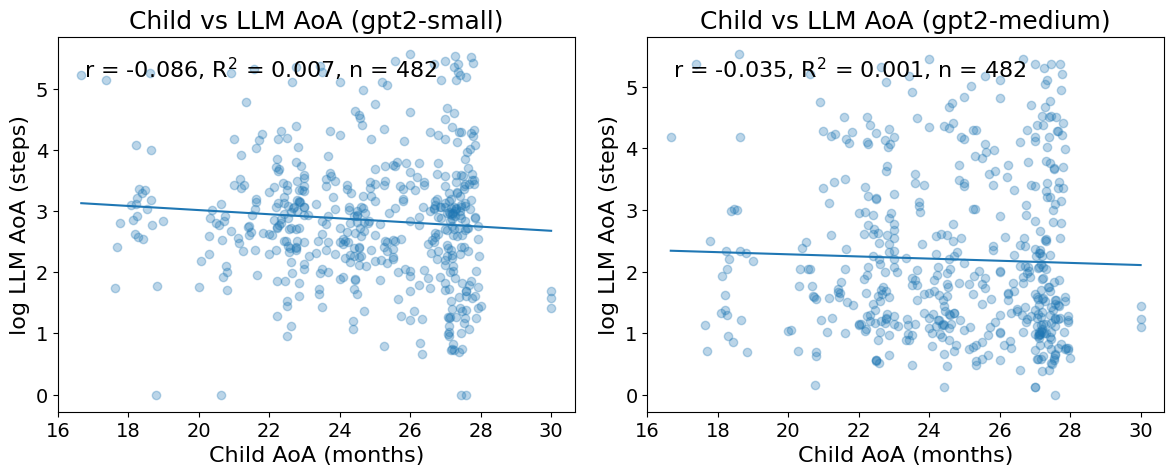
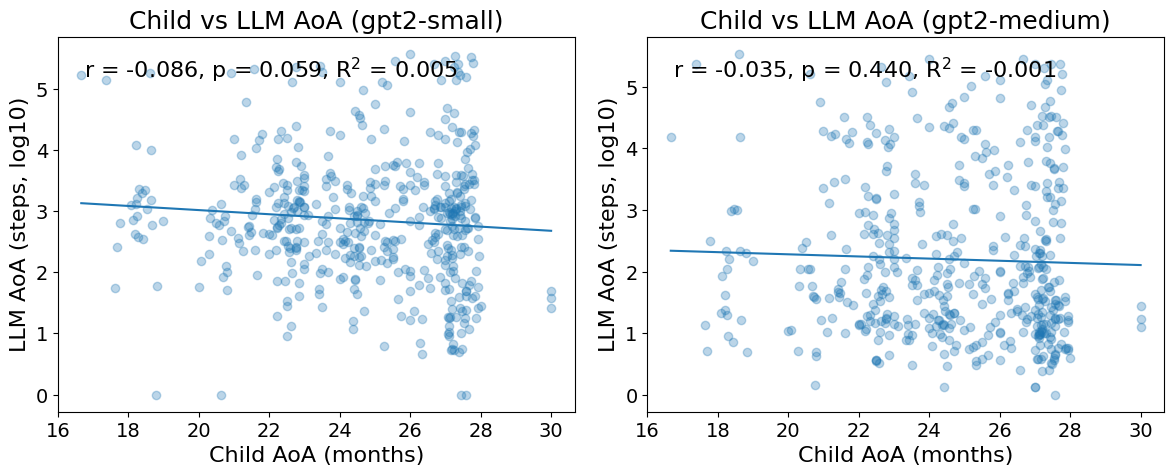
regression plots

diff --git a/src/experiments/frequency_regression.py b/src/experiments/frequency_regression.py
@@ -4,6 +4,17 @@ import numpy as np
 import pandas as pd 
 import pickle
 from sklearn.linear_model import LinearRegression
+from scipy.stats import pearsonr
+
+plt.rcParams.update(
+    {
+        "font.size": 14,
+        "axes.titlesize": 18,
+        "axes.labelsize": 16,
+        "xtick.labelsize": 12,
+        "ytick.labelsize": 12,
+    }
+)   
 
 def compute_log_freq(freq_dict):
     return {w: np.log10(freq) for w, freq in freq_dict.items() if freq > 0}
@@ -15,47 +26,76 @@ def compile_df(aoa, log_freq):
     ])
 
 def fit_regression(df):
-    x = df['log_freq'].values.reshape(-1, 1)
-    y = df['aoa'].values
+    x = df["log_freq"].values
+    y = df["aoa"].values
+    X = x.reshape(-1, 1)
+    model = LinearRegression().fit(X, y)
 
-    model = LinearRegression().fit(x, y)
-
-    r2 = model.score(x, y)
+    r2 = model.score(X, y)
     n = len(df)
-    p = 1 
+    p = 1
     adj_r2 = 1 - (1 - r2) * (n - 1) / (n - p - 1)
-    return model, r2, adj_r2
+    r, pval = pearsonr(x, y)
 
-def plot_freq_vs_aoa(df, model, adj_r2, fig_path):
-    plt.scatter(df['log_freq'], df['aoa'], alpha=0.2)
+    return model, r, adj_r2, pval
 
-    x_line = np.linspace(df['log_freq'].min(), df['log_freq'].max(), 200)
+def plot_freq_vs_aoa(ax, df, model, r, pval, r2, model_name):
+    ax.scatter(df["log_freq"], df["aoa"], alpha=0.3)
+
+    x_line = np.linspace(df["log_freq"].min(), df["log_freq"].max(), 200)
     y_line = model.predict(x_line.reshape(-1, 1))
+    ax.plot(x_line, y_line)
 
-    plt.plot(x_line, y_line)
+    ax.set_xlabel("Word log-frequency")
+    ax.set_ylabel("LLM AoA (steps, log10)")
+    ax.set_title(f"Word log-freq vs LLM AoA ({model_name})")
+    ax.tick_params(axis="both", labelsize=14)
 
-    plt.xlabel('Word log-frequency')
-    plt.ylabel('GPT-2 AoA (steps, log10)')
-    plt.title(f'GPT-2 Small: R2={adj_r2:.3f}')
-    plt.savefig(fig_path)
+    ax.text(
+        0.05,
+        0.95,
+        f"r = {r:.3f}, p = {pval:.3f}, R$^2$ = {r2:.3f}",
+        transform=ax.transAxes,
+        va="top",
+        ha="left",
+        fontsize=16
+    )
 
 def main():
-    parser = argparse.ArgumentParser(description='Plot regression between log-frequency and AoA.')
-    parser.add_argument('--fig_path', type=str, required=True)
-    parser.add_argument('--freq_dict_path', type=str, required=True)
-    parser.add_argument('--aoa_dict_path', type=str, required=True)
+    parser = argparse.ArgumentParser(description="Plot regression between log-frequency and AoA for small/medium.")
+    parser.add_argument("--fig_path", type=str, default="figs/log_freq_vs_llm_aoa.png")
+    parser.add_argument("--freq_dict_path", type=str, default="data/owt_model_frequency.pkl")
+    parser.add_argument("--aoa_small_path", type=str, default="data/aoa_small.pkl")
+    parser.add_argument("--aoa_medium_path", type=str, default="data/aoa_medium.pkl")
     args = parser.parse_args()
 
-    with open(args.freq_dict_path, 'rb') as f:
+    with open(args.freq_dict_path, "rb") as f:
         freq_dict = pickle.load(f)
 
-    with open(args.aoa_dict_path, 'rb') as g:
-        aoa_dict = pickle.load(g)
+    with open(args.aoa_small_path, "rb") as f:
+        aoa_small = pickle.load(f)
+
+    with open(args.aoa_medium_path, "rb") as f:
+        aoa_medium = pickle.load(f)
 
     log_freq = compute_log_freq(freq_dict)
-    compiled_df = compile_df(aoa_dict, log_freq)
-    model, _, adj_r2 = fit_regression(compiled_df)
-    plot_freq_vs_aoa(compiled_df, model, adj_r2, args.fig_path)
 
-if __name__ == '__main__':
+    df_small = compile_df(aoa_small, log_freq)
+    df_medium = compile_df(aoa_medium, log_freq)
+
+    model_small, r_small, adj_r2_small, pval_small = fit_regression(df_small)
+    model_medium, r_medium, adj_r2_medium, pval_medium = fit_regression(df_medium)
+
+    fig, axes = plt.subplots(1, 2, figsize=(12, 5))
+    if not isinstance(axes, np.ndarray):
+        axes = np.array([axes])
+
+    plot_freq_vs_aoa(axes[0], df_small, model_small, r_small, pval_small, adj_r2_small, "gpt2-small")
+    plot_freq_vs_aoa(axes[1], df_medium, model_medium, r_medium, pval_medium, adj_r2_medium, "gpt2-medium")
+
+    fig.tight_layout()
+    fig.savefig(args.fig_path, bbox_inches="tight")
+    plt.close(fig)
+
+if __name__ == "__main__":
     main()

diff --git a/src/experiments/simplicity_regression.py b/src/experiments/simplicity_regression.py
@@ -127,8 +127,12 @@ def main():
         y_arr = np.array(y_vals, dtype=float)
         if x_arr.size < 2:
             continue
-        r, _ = pearsonr(x_arr, y_arr)
+        r, pval = pearsonr(x_arr, y_arr)
         r2 = r**2
+        n = len(x_vals)
+        p = 1
+        adj_r2 = 1 - (1 - r2) * (n - 1) / (n - p - 1)
+        
         coeffs = np.polyfit(x_arr, y_arr, 1)
         x_line = np.linspace(x_arr.min(), x_arr.max(), 100)
         y_line = coeffs[0] * x_line + coeffs[1]
@@ -136,17 +140,17 @@ def main():
         ax.scatter(x_arr, y_arr, alpha=0.3)
         ax.plot(x_line, y_line)
         ax.set_xlabel("Child AoA (months)")
-        ax.set_ylabel("log LLM AoA (steps)")
+        ax.set_ylabel("LLM AoA (steps, log10)")
         ax.set_title(f"Child vs LLM AoA ({model_name})")
         ax.tick_params(axis="both", labelsize=14)
         ax.text(
             0.05,
             0.95,
-            f"r = {r:.3f}, R$^2$ = {r2:.3f}, n = {x_arr.size}",
+            f"r = {r:.3f}, p = {pval:.3f}, R$^2$ = {adj_r2:.3f}",
             transform=ax.transAxes,
             va="top",
             ha="left",
-            fontsize=16,
+            fontsize=16
         )
         plotted += 1
 
